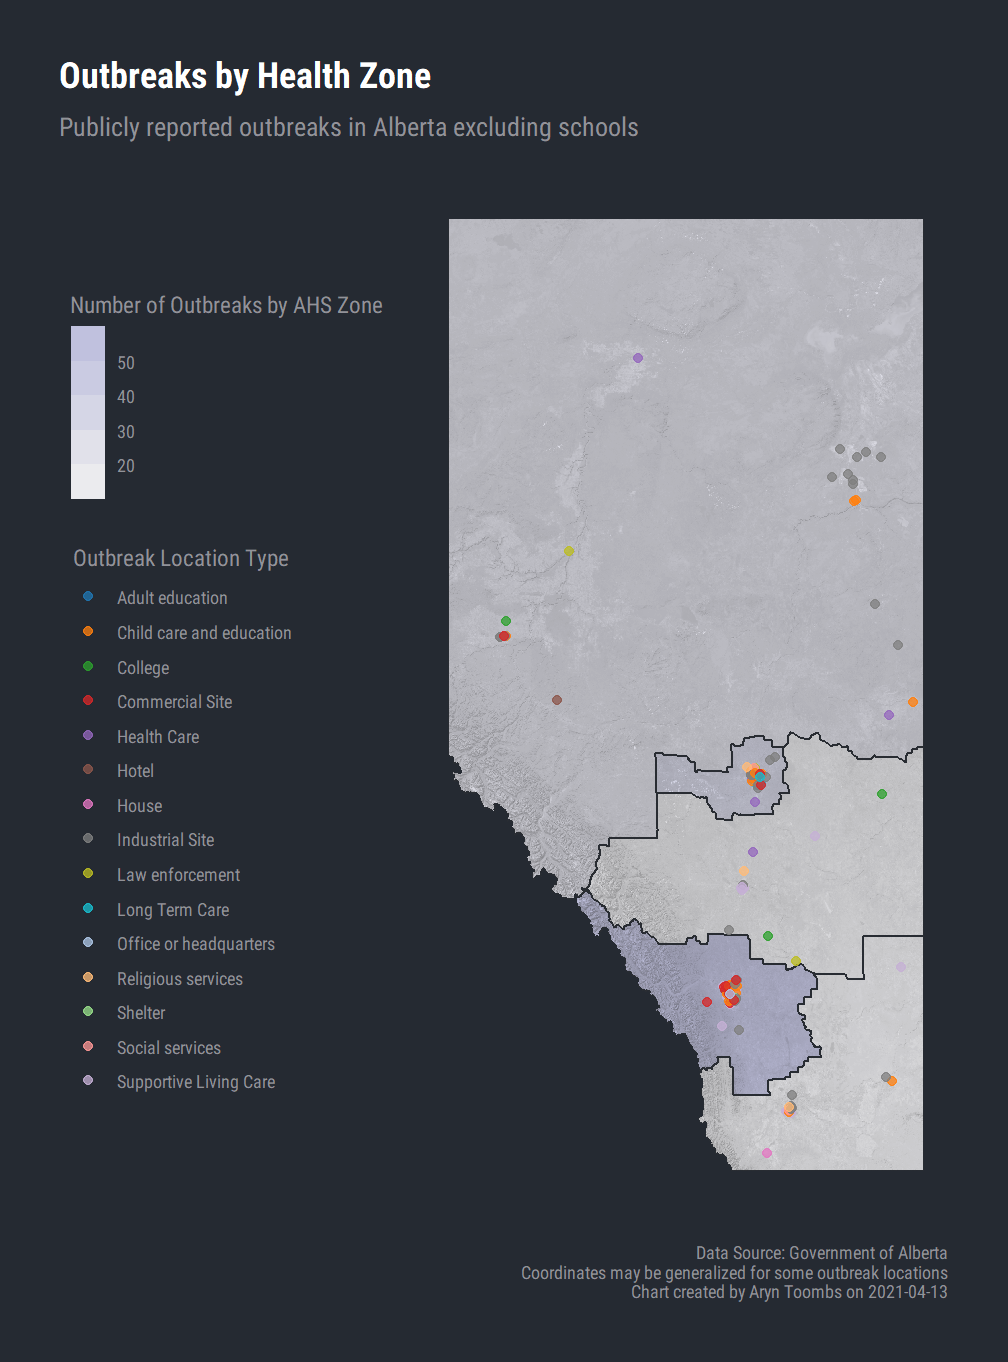
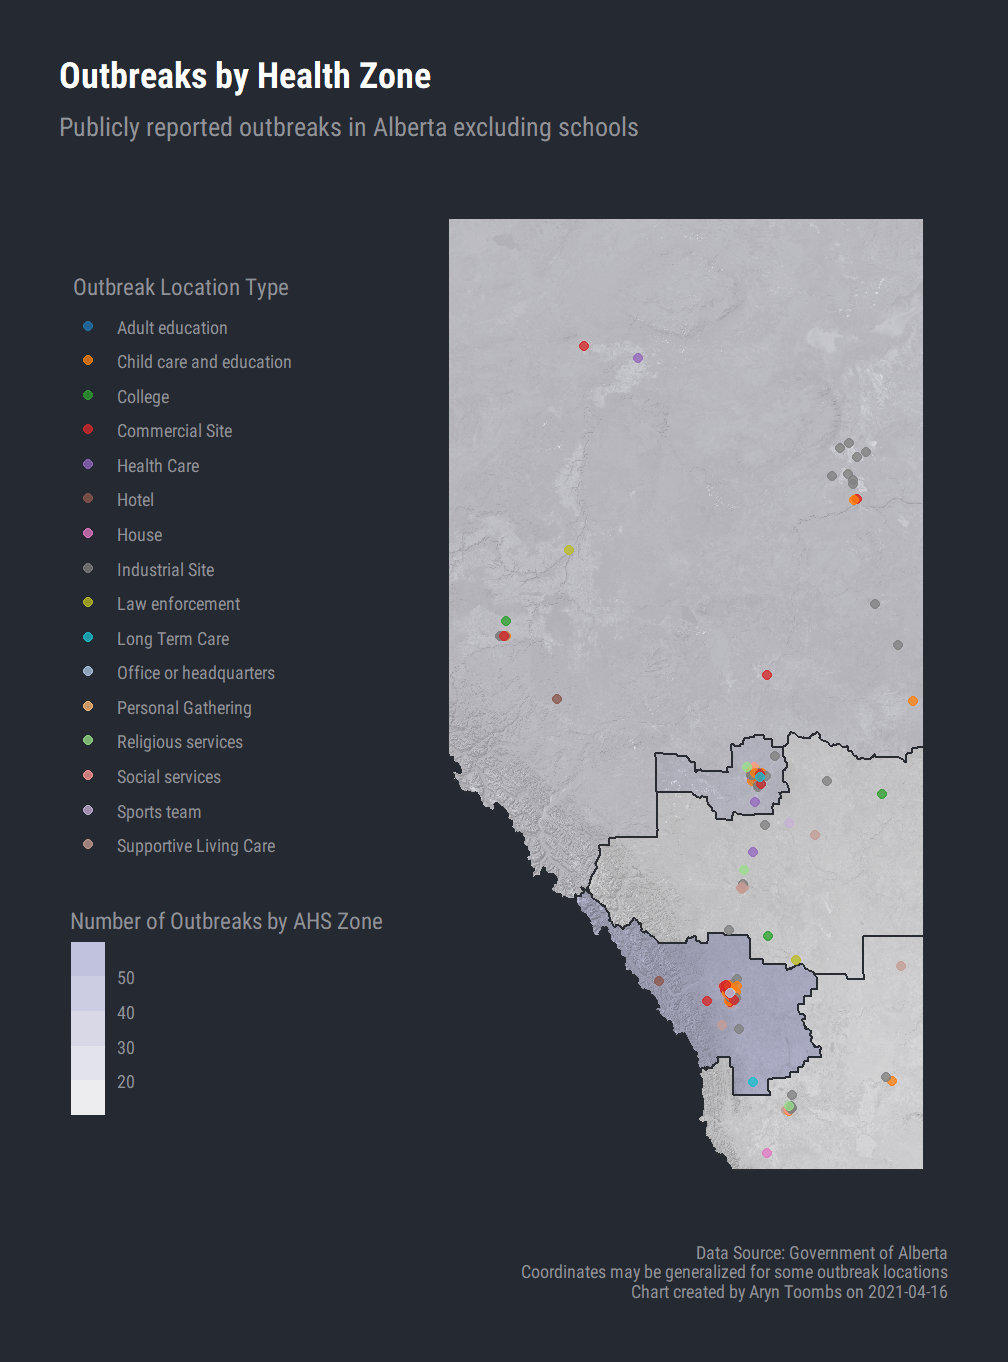
web

diff --git a/outbreaks/index.html b/outbreaks/index.html
@@ -142,7 +142,7 @@
       Calgary Zone
     </div>
     <div class="row box-bottom justify-content-center">
-      <h4>58</h4>
+      <h4>59</h4>
     </div>
   </div>
   <div class="col-sm ml-1 mr-1">
@@ -150,7 +150,7 @@
       Edmonton Zone
     </div>
     <div class="row box-bottom justify-content-center">
-      <h4>38</h4>
+      <h4>37</h4>
     </div>
   </div>
   <div class="col-sm ml-1 mr-1">
@@ -158,7 +158,7 @@
       South Zone
     </div>
     <div class="row box-bottom justify-content-center">
-      <h4>19</h4>
+      <h4>16</h4>
     </div>
   </div>
   <div class="col-sm ml-1 mr-1">
@@ -166,7 +166,7 @@
       Central Zone
     </div>
     <div class="row box-bottom justify-content-center">
-      <h4>11</h4>
+      <h4>14</h4>
     </div>
   </div>
   <div class="col-sm ml-1 mr-1">
@@ -174,12 +174,12 @@
       North Zone
     </div>
     <div class="row box-bottom justify-content-center">
-      <h4>28</h4>
+      <h4>30</h4>
     </div>
   </div>
 </div>
 <div class="row mb-3 pr-1 pt-1 justify-content-end">
-  <p class="m-1"><i class="bi bi-info-circle-fill"></i> Covid-19 outbreaks (not including schools, see below) current as of Tue, Apr 13, 2021. AHS data updated on Tuesdays and Fridays.</p>
+  <p class="m-1"><i class="bi bi-info-circle-fill"></i> Covid-19 outbreaks (not including schools, see below) current as of Fri, Apr 16, 2021. AHS data updated on Tuesdays and Fridays.</p>
 </div>
   <div class="row pl-3">
     <h4 class="body-display">Outbreak Charts</h4>
